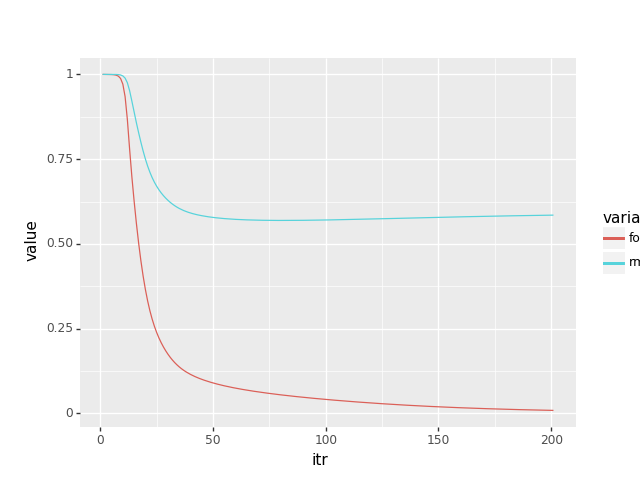
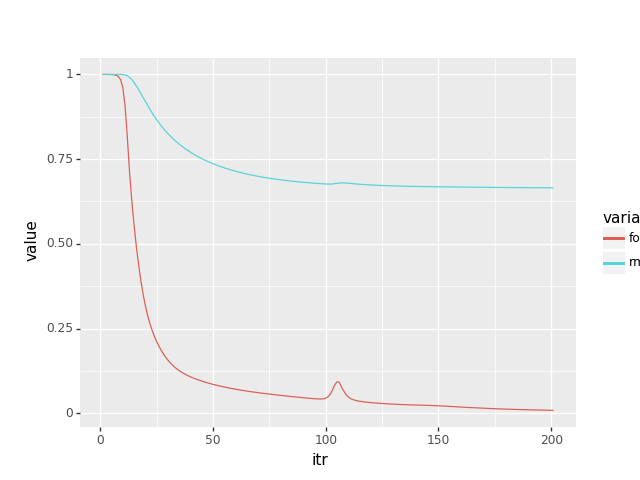
fix format and add plots

diff --git a/script/collaborative_em/EM_Rating.py b/script/collaborative_em/EM_Rating.py
@@ -9,7 +9,6 @@ from tqdm import tqdm
 import time
 import matplotlib.pyplot as plt
 from sklearn.mixture import GaussianMixture
-from sklearn.model_selection import train_test_split
 
 
 locationUsersFile=pathlib.Path(r'D:/Game-Recommendation-System/data/raw_data/steam_users_purchase_play.csv')
@@ -29,7 +28,7 @@ top20 = game_freq.sort_values(by='user',ascending=False)[:20].reset_index()
 steam_clean['game1'] = steam_clean['game'].apply(lambda x: re.sub('[^a-zA-Z0-9]', '', x))
 steam_traind['game1'] = steam_traind['game'].apply(lambda x: re.sub('[^a-zA-Z0-9]', '', x))
 #steam_clean.head()
-
+'''
 #First EM Algorithm
 def game_hrs_density(GAME, nclass, print_vals=True):
     game_data = steam_clean[(steam_clean['game1'] == GAME) & (steam_clean['hrs'] > 2)]
@@ -51,7 +50,29 @@ def game_hrs_density(GAME, nclass, print_vals=True):
     return game_plt
 
 a = game_hrs_density('Fallout4', 5, True)
+print(a)
+'''
+def game_hrs_density(GAME, nclass, print_vals=True):
+    game_data = steam_clean[(steam_clean['game1'] == GAME) & (steam_clean['hrs'] > 2)]
+    game_data['loghrs'] = np.log(steam_clean['hrs'])
+    mu_init = np.linspace(min(game_data['loghrs']), max(game_data['loghrs']), nclass).reshape(-1, 1)
+    sigma_init = np.array([1] * nclass).reshape(-1, 1, 1)
+    gaussian = GaussianMixture(n_components=nclass, means_init=mu_init, precisions_init=sigma_init).fit(game_data['loghrs'].values.reshape([-1, 1]))
+    if print_vals:
+        print(' lambda: {}\n mean: {}\n sigma: {}\n'.format(gaussian.weights_, gaussian.means_, gaussian.covariances_))
+    # building data frame for plotting
+    x = np.linspace(min(game_data['loghrs']), max(game_data['loghrs']), 1000)
+    dens = pd.DataFrame({'x': x})
+    for i in range(nclass):
+        dens['y{}'.format(i+1)] = gaussian.weights_[i]* scipy.stats.norm(gaussian.means_[i][0], gaussian.covariances_[i][0][0]).pdf(x)
+    dens = dens.melt('x', value_name='gaussian')
+    game_plt = ggplot(aes(x='loghrs', y='stat(density)'), game_data) + geom_histogram(bins=25, colour = "black", alpha = 0.7, size = 0.1) + \
+               geom_area(dens, aes(x='x', y='gaussian', fill = 'variable'), alpha = 0.5, position = position_dodge(width=0.2)) + geom_density()+ \
+               ggtitle(GAME)
+    return game_plt
 
+analy_game = game_hrs_density('TheWitcher3WildHunt', 5, True)
+print(analy_game)
 
 # Create user item matrix
 np.random.seed(910)
@@ -70,7 +91,7 @@ games = pd.DataFrame({'game1': sorted(steam_clean_pos['game1'].unique()), 'game_
 users = pd.DataFrame({'user': sorted(steam_clean_pos['user'].unique()), 'user_id': range(len(steam_clean_pos['user'].unique()))})
 steam_clean_pos = pd.merge(steam_clean_pos, games, on=['game1'])
 steam_clean_pos = pd.merge(steam_clean_pos, users, on=['user'])
-print(steam_clean_pos)
+
 
 #test dataset user
 users_test = pd.DataFrame({'user': sorted(steam_test['user'].unique()), 'user_id': range(len(steam_test['user'].unique()))})
@@ -128,15 +149,14 @@ for i, col in enumerate(Y.columns):
 U, D, V = np.linalg.svd(Y)
 
 p_df = pd.DataFrame({'x': range(1, len(D)+1), 'y': D/np.sum(D)})
-ggplot(p_df, aes(x='x', y='y')) + \
+print(ggplot(p_df, aes(x='x', y='y')) + \
 geom_line() + \
-labs(x = "Leading component", y = "")
+labs(x = "Leading component", y = ""))
 
 lc = 60
 pred = np.dot(np.dot(U[:, :lc], np.diag(D[:lc])), V[:lc, :])
 
-#print(rmse(pred, test))
-print(test)
+print(rmse(pred, test))
 rmse(pred, test, True).head()
 
 # SVD via gradient descent
@@ -176,10 +196,10 @@ fojb = np.array(fobj)
 rmsej = np.array(rmsej)
 path1 = pd.DataFrame({'itr': range(1, N+2), 'fobj': fobj, 'fobjp': fobj/max(fobj), 'rmse': rmsej, 'rmsep': rmsej/max(rmsej)})
 path1gg = pd.melt(path1[["itr", "fobjp", "rmsep"]], id_vars=['itr'])
-#print(path1.tail(1))
+print(path1.tail(1))
 
 
-#print(ggplot(path1gg, aes('itr', 'value', color = 'variable')) + geom_line())
+print(ggplot(path1gg, aes('itr', 'value', color = 'variable')) + geom_line())
 
 
 # Create a rating based on time played
@@ -211,7 +231,7 @@ def game_hrs_density_p(pred, GAME=None, nclass=1, print_vals=True):
                ggtitle(t_GAME)
     return game_plt
 
-a = game_hrs_density_p(pred, "Fallout4", 5)
+a = game_hrs_density_p(pred, "TheWitcher3WildHunt", 5)
 #print(a)
 
 # Export recommend games

diff --git a/script/data_analysis/histogram.py b/script/data_analysis/histogram.py
@@ -5,6 +5,8 @@ from plotnine import *
 from plotnine.data import *
 import seaborn as sns
 import matplotlib.pyplot as plt
+from matplotlib.cm import ScalarMappable
+from plotnine import *
 
 locationUsersFile=pathlib.Path(r'D:/Game-Recommendation-System/data/raw_data/steam_users_purchase_play.csv')
 steam_clean = pd.read_csv(locationUsersFile, header=1, names=['user', 'game', 'hrs', 'purchase', 'play'])
@@ -17,13 +19,14 @@ most_played_games = game_total_hrs.sort_values(ascending=False)[:20]
 game_freq = steam_clean.groupby(by='game').agg({'user': 'count', 'hrs': 'sum'}).reset_index()
 top20 = game_freq.sort_values(by='user',ascending=False)[:20].reset_index()
 print(top20)
-
+top20['hrs']=top20['hrs'].round(1)
 # show histogram
 plt.figure(figsize=(20, 10))
 sns.set(font_scale = 2)
-ax = sns.barplot(x='user', y='game', alpha=0.9,data=top20, palette='Blues_r',dodge=False)
+ax = sns.barplot(x='user', y='game', hue='hrs',alpha=0.9,data=top20, palette='Blues_r',dodge=False)
 ax.set(xlabel='Number of Users', ylabel='Game', title='Top 20 games with the most users(All)')
 ax.set_xticklabels(ax.get_xticklabels(), rotation=90)
+ax.legend(fontsize=13)
 plt.show()
 
 #consider the situation that only included play
@@ -34,12 +37,14 @@ most_played_games = game_total_hrs.sort_values(ascending=False)[:20]
 # game with the highest number of users
 game_freq = steam_clean.groupby(by='game').agg({'user': 'count', 'hrs': 'sum'}).reset_index()
 top20 = game_freq.sort_values(by='user',ascending=False)[:20].reset_index()
+top20['hrs']=top20['hrs'].round(1)
 
 plt.figure(figsize=(20, 10))
 sns.set(font_scale = 2)
-ax = sns.barplot(x='user', y='game', alpha=0.9,data=top20, palette='Blues_r',dodge=False)
+ax = sns.barplot(x='user', y='game', hue='hrs',alpha=0.9,data=top20, palette='Blues_r',dodge=False)
 ax.set(xlabel='Number of Users', ylabel='Game', title='Top 20 games with the most users(Play)')
 ax.set_xticklabels(ax.get_xticklabels(), rotation=90)
+ax.legend(fontsize=13)
 plt.show()
 
 
